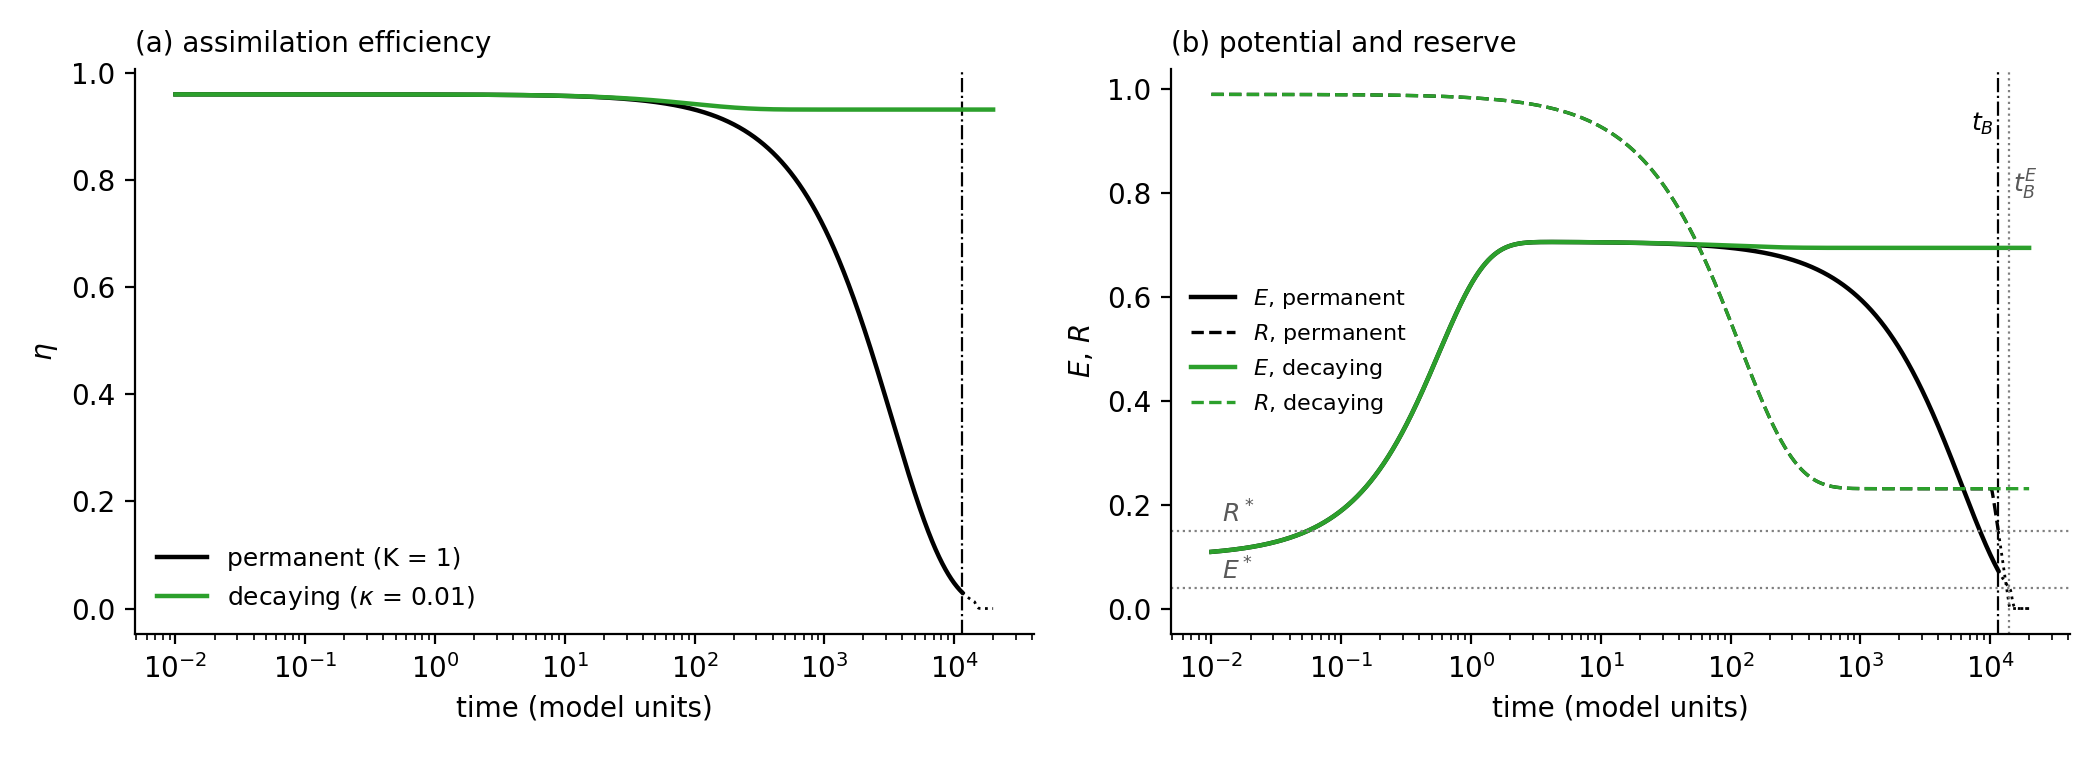
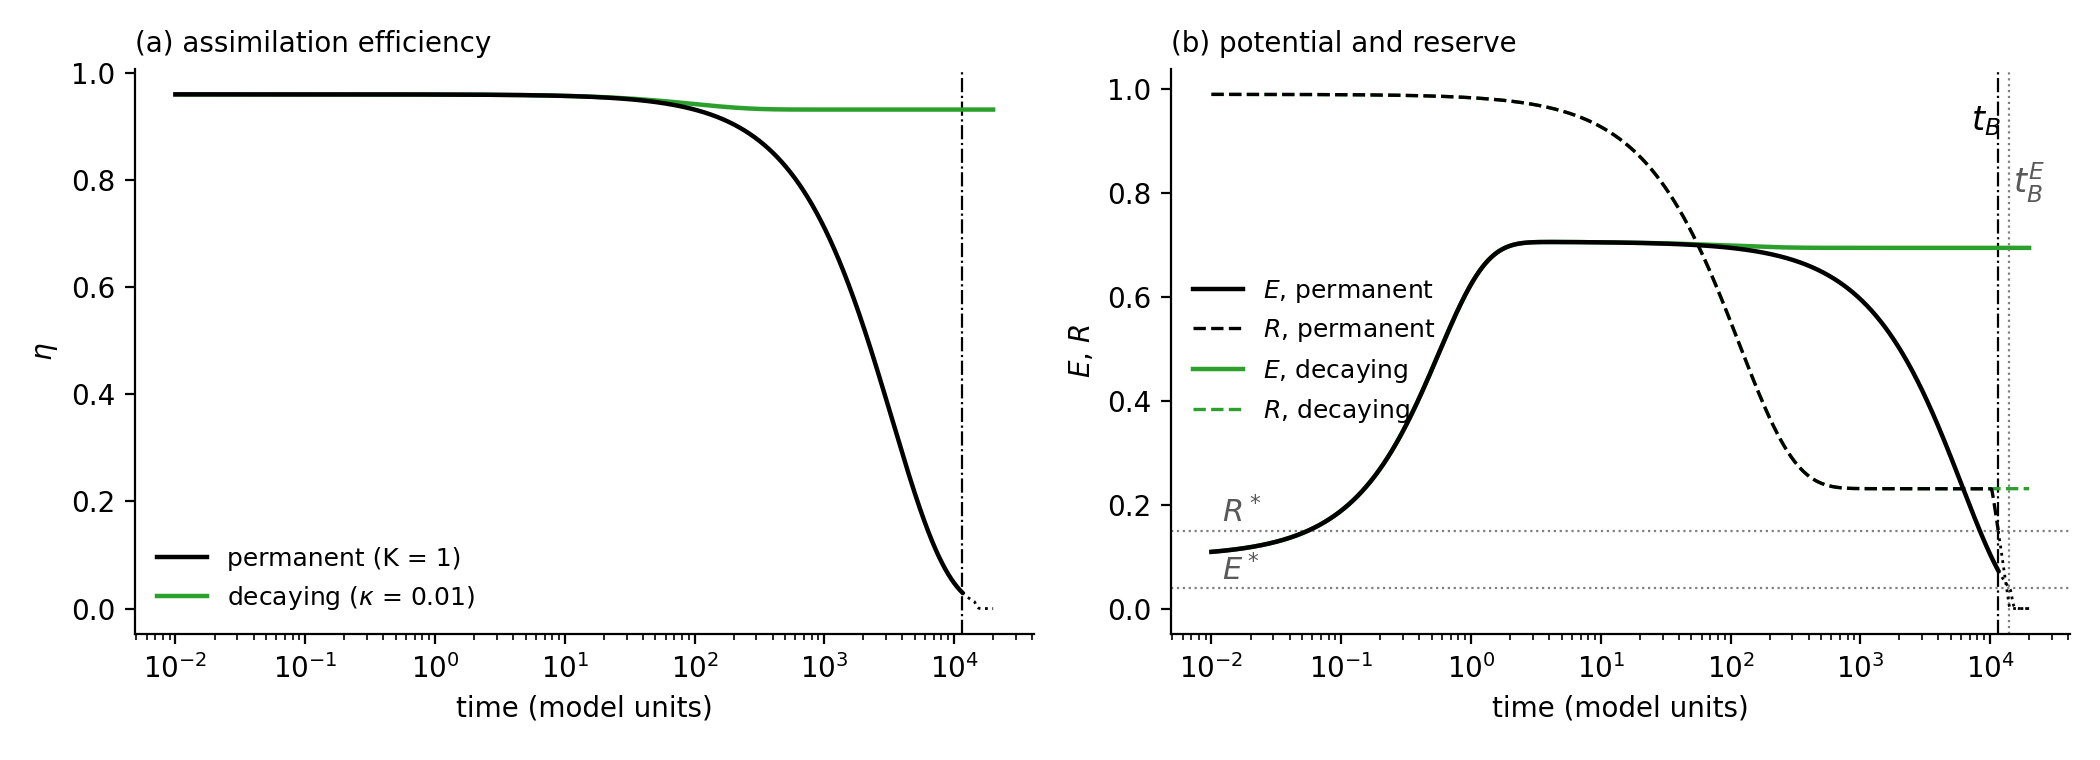
Paper1: draw the permanent-trace run of Figure 2 on top and enlarge its labels
Plotting only: the two runs coincide until the memories diverge, so the main run is now drawn above the other. The numeric output (paper1_numbers.out.txt) and Figure 1 are byte-identical after the rerun.

diff --git a/verification/Paper1/paper1_numbers.py b/verification/Paper1/paper1_numbers.py
@@ -395,6 +395,7 @@ def main():
     styles = {'permanent (K = 1)': 'k', 'decaying (kappa = 0.01)': 'C2'}
     for name, (s, e, r) in kern.items():
         col = styles[name]
+        z = 3 if col == 'k' else 2   # permanent-trace curves drawn on top: they coincide with the other run early on
         t_end = min(e, r)
         tt_k = s.t[1:]
         alive = tt_k <= t_end
@@ -402,27 +403,27 @@ def main():
         for a, v, ls, lw, lab in ((ax[0], eta_of(s.y[2][1:], P), '-', 1.6, name.replace('kappa', '$\\kappa$')),
                                   (ax[1], s.y[0][1:], '-', 1.6, '$E$, ' + short),
                                   (ax[1], s.y[3][1:], '--', 1.2, '$R$, ' + short)):
-            a.semilogx(tt_k[alive], v[alive], color=col, ls=ls, lw=lw, label=lab)
+            a.semilogx(tt_k[alive], v[alive], color=col, ls=ls, lw=lw, label=lab, zorder=z)
             if (~alive).any():
-                a.semilogx(tt_k[~alive], v[~alive], color=col, ls=':', lw=1.0)
+                a.semilogx(tt_k[~alive], v[~alive], color=col, ls=':', lw=1.0, zorder=z)
         if np.isfinite(t_end):
             for a in ax:
                 a.axvline(t_end, color=col, lw=0.8, ls='-.')
-            ax[1].text(t_end * 0.62, 0.92, '$t_B$', fontsize=9, color=col)
+            ax[1].text(t_end * 0.62, 0.92, '$t_B$', fontsize=12, color=col)
     e_perm = kern['permanent (K = 1)'][1]
     ax[1].axvline(e_perm, color='0.5', lw=0.8, ls=':')
-    ax[1].text(e_perm * 1.08, 0.80, '$t_B^E$', fontsize=9, color='0.35')
+    ax[1].text(e_perm * 1.08, 0.80, '$t_B^E$', fontsize=12, color='0.35')
     ax[1].axhline(P['E_star'], color='0.5', lw=0.8, ls=':')
     ax[1].axhline(P['R_star'], color='0.5', lw=0.8, ls=':')
-    ax[1].text(0.012, P['E_star'] + 0.015, '$E^*$', fontsize=9, color='0.35')
-    ax[1].text(0.012, P['R_star'] + 0.015, '$R^*$', fontsize=9, color='0.35')
+    ax[1].text(0.012, P['E_star'] + 0.015, '$E^*$', fontsize=11, color='0.35')
+    ax[1].text(0.012, P['R_star'] + 0.015, '$R^*$', fontsize=11, color='0.35')
     ax[0].set_xlabel('time (model units)')
     ax[0].set_ylabel('$\\eta$')
     ax[0].legend(frameon=False, fontsize=9, loc='lower left')
     ax[0].set_title('(a) assimilation efficiency', fontsize=10, loc='left')
     ax[1].set_xlabel('time (model units)')
     ax[1].set_ylabel('$E$, $R$')
-    ax[1].legend(frameon=False, fontsize=8, loc='center left')
+    ax[1].legend(frameon=False, fontsize=9, loc='center left')
     ax[1].set_title('(b) potential and reserve', fontsize=10, loc='left')
     fig.tight_layout()
     save_fig(fig, 'paper1_fig2.png')
